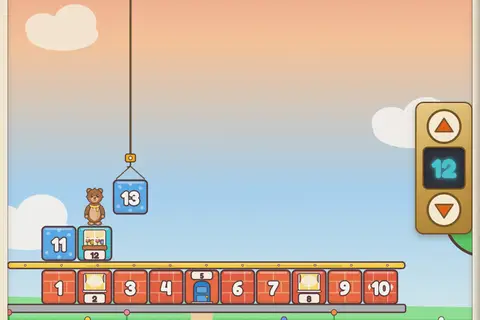
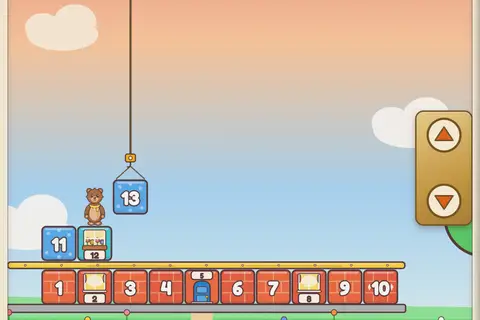
Counting Tower: the elevator panel holds only its two arrows jumping a ten, no number display between them

Changed region(s): [[0.8438, 0.3125, 1.0, 0.75]]

diff --git a/src/games/tower/TowerPlay.tsx b/src/games/tower/TowerPlay.tsx
@@ -31,7 +31,7 @@ import { useTimers } from "@/lib/timers";
 import { TWO_DIGIT_WORDS } from "../letters/twoDigits";
 import { lettersVoice, useLettersSay } from "../letters/voice";
 import { Backdrop, Beam, Flag, Hook, HOOK, HouseBlock, Puff, Roof, roofBox } from "./drawings";
-import { FLOORS, type Special, colorOf, floorOf, placeOf, specialOf } from "./floors";
+import { FLOORS, type Special, floorOf, placeOf, specialOf } from "./floors";
 import { Kid } from "./Kid";
 import {
   BEAM,
@@ -90,7 +90,7 @@ const worldFor = (l: HouseLayout, next: number) => (next > TOTAL ? whole(l) : ca
  * The Counting Tower (L-18), made new (user request, 24 November 2026): one house built from 1 to 100 without a break.
  * Each tap or key lowers the next block from the crane's hook into its place, the fox or bear child hops onto it and the
  * number is said; ten blocks make a floor across the screen, a beam is laid over it and the camera goes up to the next
- * ten, as in a jump-and-run. The elevator panel on the right shows the number and jumps a whole ten up or back. At a
+ * ten, as in a jump-and-run. The elevator panel on the right jumps a whole ten up or back. At a
  * hundred the roof goes on and the whole house is seen, then its trophy. The next number is in the address (`?seite=`)
  * and kept for the next visit.
  */
@@ -603,7 +603,6 @@ function HouseScene({ layout: l, start, ride, onPlaced, onJump, ending }: SceneP
         {(phase === "build" || phase === "beam") && (
           <ElevatorPanel
             l={l}
-            number={count}
             up={up}
             down={down}
             upLabel={t(JUMP_TEXTS.up)}
@@ -625,13 +624,13 @@ function HouseScene({ layout: l, start, ride, onPlaced, onJump, ending }: SceneP
 }
 
 /**
- * The elevator panel on the right: the number of blocks laid big in its display, and an arrow up and down that jump a
- * whole ten – up to the next floor, or back to the floor below – so grown-ups can go on at 11, 21 … at once (user
- * request, 24 November 2026). Only a tap on an arrow jumps, never a press elsewhere; a quick second tap changes nothing.
+ * The elevator panel on the right: an arrow up and down that jump a whole ten – up to the next floor, or back to the
+ * floor below – so grown-ups can go on at 11, 21 … at once (user request, 24 November 2026). Jumping by tens is all it
+ * does: no display of the number laid between the arrows (user feedback, 24 November 2026), the voice and the house
+ * count already. Only a tap on an arrow jumps, never a press elsewhere; a quick second tap changes nothing.
  */
 function ElevatorPanel({
   l,
-  number,
   up,
   down,
   upLabel,
@@ -639,7 +638,6 @@ function ElevatorPanel({
   onJump,
 }: {
   l: HouseLayout;
-  number: number;
   up?: number;
   down?: number;
   upLabel: string;
@@ -647,20 +645,7 @@ function ElevatorPanel({
   onJump: (to: number) => void;
 }) {
   const { left, width, middle } = l.panel;
-  const shown = useRef<HTMLSpanElement>(null);
-  const first = useRef(number);
-  // A new number pops up in the display; the one the scene starts with simply stands there.
-  useLayoutEffect(() => {
-    if (number === first.current) return;
-    shown.current?.animate(
-      [
-        { transform: "scale(0.6)", opacity: 0.4 },
-        { transform: "none", opacity: 1 },
-      ],
-      { duration: 260, easing: "ease-out" },
-    );
-  }, [number]);
-  const height = Math.min(2.3 * width, 0.86 * l.h);
+  const height = Math.min(2 * width, 0.86 * l.h);
   const arrow = (to: number | undefined, label: string, dir: "up" | "down") => (
     <button
       type="button"
@@ -689,13 +674,6 @@ function ElevatorPanel({
       onPointerDown={(e) => e.stopPropagation()}
     >
       {arrow(up, upLabel, "up")}
-      <div className="zt-display" style={{ fontSize: width * (number >= TOTAL ? 0.36 : 0.46) }}>
-        {number > 0 && (
-          <span ref={shown} className="zt-number" style={{ color: colorOf(number) }}>
-            {number}
-          </span>
-        )}
-      </div>
       {arrow(down, downLabel, "down")}
     </div>
   );

diff --git a/src/content/ideas/l-letters.ts b/src/content/ideas/l-letters.ts
@@ -169,7 +169,7 @@ export const lettersIdeas: IdeaArea = {
       effort: "S",
       done: true,
       partial:
-        "Am 24. November 2026 ganz neu gebaut (Nutzerwunsch): ein Haus von 1 bis 100 in einem Stück, ohne Runden. Jeder Tipp senkt den nächsten Klotz vom Kranhaken an seinen Platz, das Fuchs- oder Bärkind hüpft darauf, die Stimme zählt. Zehn Klötze sind ein Stockwerk über die ganze Breite des Bildschirms, darüber schiebt sich ein bunter Holzbalken, und der Bildschirm fährt wie in einem Jump-and-Run ein Stockwerk hinauf. Jedes Stockwerk sieht anders aus (eigene Farben und Muster, eigener Balken) und hat Klötze, die zum Haus gehören und beim Landen etwas tun: die Haustür geht auf, Licht geht an, Katze, Hund, Vogelhaus, Blumen, Fisch, Herz, Stern. Rechts ein Fahrstuhl-Tableau mit der Zahl und Pfeilen, die einen ganzen Zehner hinauf oder zurück springen. Bei 100 kommt das Dach, Rauch steigt, die Fahne geht hoch, man sieht das ganze Haus, dann der Pokal. Davor: gebaut als „Counting Tower“ (`/zaehlturm/`, 21. November 2026), neu gedacht und bis hundert (Nutzerwunsch, ohne Option): zehn Runden zu je zehn Klötzen (1–10, 11–20 … 91–100), jede mit ihrem eigenen Ziel über dem Turm, das mit jedem Klotz näher kommt und beim zehnten erreicht wird – Luftballon, Vogelnest, Papierflieger, Wolke, Regenbogen-Rutsche, Drachen, großer Vogel, Heißluftballon, Eulenhöhle und zuletzt der Mond bei 100. Das Fuchs- oder Bärkind (Junge / Mädchen) steht oben und klettert mit, der Turm wackelt mit jedem Klotz etwas mehr, der Himmel geht vom Morgen bis in die Nacht. Jede Runde endet mit ihrem Bild, Pokal und „Weiter“ zur nächsten Zehnerreihe. Hinter ⚙ (gehalten): neu bei 1 anfangen oder mit einem Regler zu jeder Zahl springen; die früheren Klötze der Runde stehen dann schon. Die Zahlwörter eins bis neun sind aufgenommen, 10–100 warten auf ihre Aufnahme und bleiben bis dahin still.",
+        "Am 24. November 2026 ganz neu gebaut (Nutzerwunsch): ein Haus von 1 bis 100 in einem Stück, ohne Runden. Jeder Tipp senkt den nächsten Klotz vom Kranhaken an seinen Platz, das Fuchs- oder Bärkind hüpft darauf, die Stimme zählt. Zehn Klötze sind ein Stockwerk über die ganze Breite des Bildschirms, darüber schiebt sich ein bunter Holzbalken, und der Bildschirm fährt wie in einem Jump-and-Run ein Stockwerk hinauf. Jedes Stockwerk sieht anders aus (eigene Farben und Muster, eigener Balken) und hat Klötze, die zum Haus gehören und beim Landen etwas tun: die Haustür geht auf, Licht geht an, Katze, Hund, Vogelhaus, Blumen, Fisch, Herz, Stern. Rechts ein Fahrstuhl-Tableau mit zwei Pfeilen, die einen ganzen Zehner hinauf oder zurück springen (die Zahlenanzeige dazwischen fiel am selben Tag weg: Zehnersprünge reichen). Bei 100 kommt das Dach, Rauch steigt, die Fahne geht hoch, man sieht das ganze Haus, dann der Pokal. Davor: gebaut als „Counting Tower“ (`/zaehlturm/`, 21. November 2026), neu gedacht und bis hundert (Nutzerwunsch, ohne Option): zehn Runden zu je zehn Klötzen (1–10, 11–20 … 91–100), jede mit ihrem eigenen Ziel über dem Turm, das mit jedem Klotz näher kommt und beim zehnten erreicht wird – Luftballon, Vogelnest, Papierflieger, Wolke, Regenbogen-Rutsche, Drachen, großer Vogel, Heißluftballon, Eulenhöhle und zuletzt der Mond bei 100. Das Fuchs- oder Bärkind (Junge / Mädchen) steht oben und klettert mit, der Turm wackelt mit jedem Klotz etwas mehr, der Himmel geht vom Morgen bis in die Nacht. Jede Runde endet mit ihrem Bild, Pokal und „Weiter“ zur nächsten Zehnerreihe. Hinter ⚙ (gehalten): neu bei 1 anfangen oder mit einem Regler zu jeder Zahl springen; die früheren Klötze der Runde stehen dann schon. Die Zahlwörter eins bis neun sind aufgenommen, 10–100 warten auf ihre Aufnahme und bleiben bis dahin still.",
     },
     {
       id: "L-19",

diff --git a/src/games/tower/tower.css b/src/games/tower/tower.css
@@ -111,7 +111,7 @@
   opacity: 0;
 }
 
-/* The elevator panel on the right: a brass plate with an arrow up, the number in its display and an arrow down. */
+/* The elevator panel on the right: a brass plate with an arrow up and an arrow down, nothing between them. */
 .zt-panel {
   position: absolute;
   z-index: 2;
@@ -126,25 +126,6 @@
   box-shadow:
     0 6px 14px rgb(40 25 10 / 0.35),
     inset 0 2px 0 rgb(255 255 255 / 0.45);
-}
-
-.zt-display {
-  display: grid;
-  place-items: center;
-  width: 100%;
-  aspect-ratio: 1;
-  border-radius: 12px;
-  background: #1d2433;
-  border: 3px solid #6b4a1c;
-  box-shadow: inset 0 3px 8px rgb(0 0 0 / 0.6);
-  font-family: var(--font-rounded);
-  font-weight: 900;
-  line-height: 1;
-}
-
-.zt-number {
-  display: block;
-  text-shadow: 0 0 0.18em currentColor;
 }
 
 .zt-jump {

diff --git a/src/games/tower/CLAUDE.md b/src/games/tower/CLAUDE.md
@@ -21,8 +21,10 @@ house built from 1 to 100 in one go. Its name, line and the panel's arrows' name
   comes down slowly to a drum roll.
 - **Big blocks** (user request): as big as ten across the room left of the panel allow, at most a fifth of the screen's
   height (`layout.test.ts` checks every screen).
-- **Jump a ten up or back** (user request): the elevator panel on the right shows the number laid; ▲ goes on at the
-  next ten (11, 21 …), ▼ back to the ten before (on the first floor: from 1). The scene is built anew there and the
+- **Jump a ten up or back** (user request): the elevator panel on the right holds only its two arrows; ▲ goes on at the
+  next ten (11, 21 …), ▼ back to the ten before (on the first floor: from 1). Jumping by tens is all it does – no
+  display of the number laid between them (user feedback, 24 November 2026: jumping by tens is enough), nor single
+  steps or a number to pick. The scene is built anew there and the
   camera rides from where it was, like an elevator. Only a tap on an arrow jumps (`screenTap`), never a press
   elsewhere.
 - At 100 the child runs to the ledge, the roof comes down on the crane's rope, smoke puffs from the chimney, the flag
